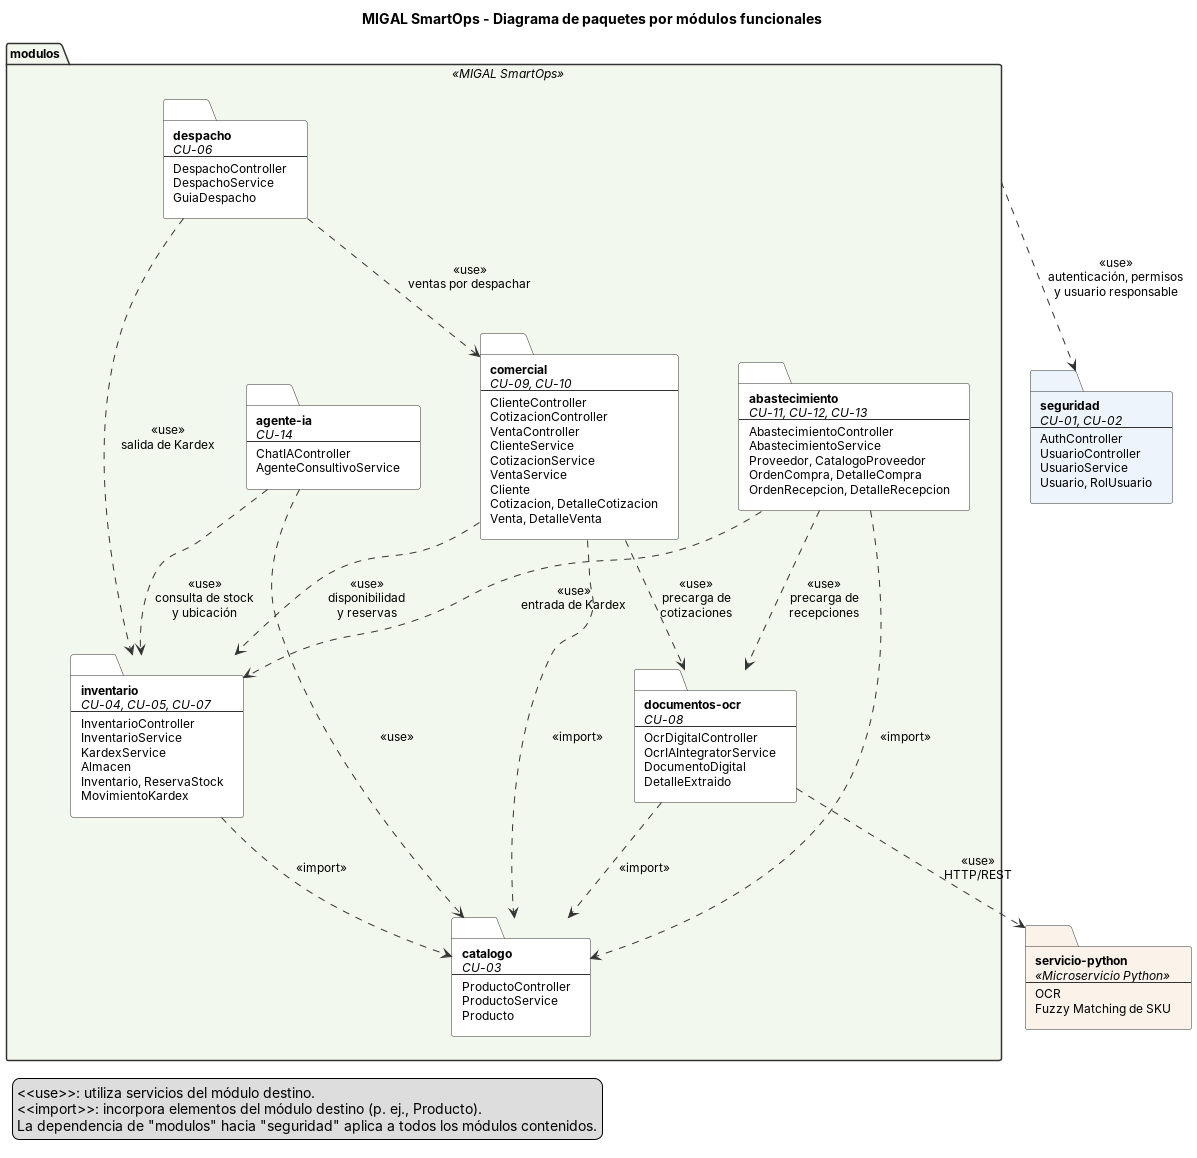
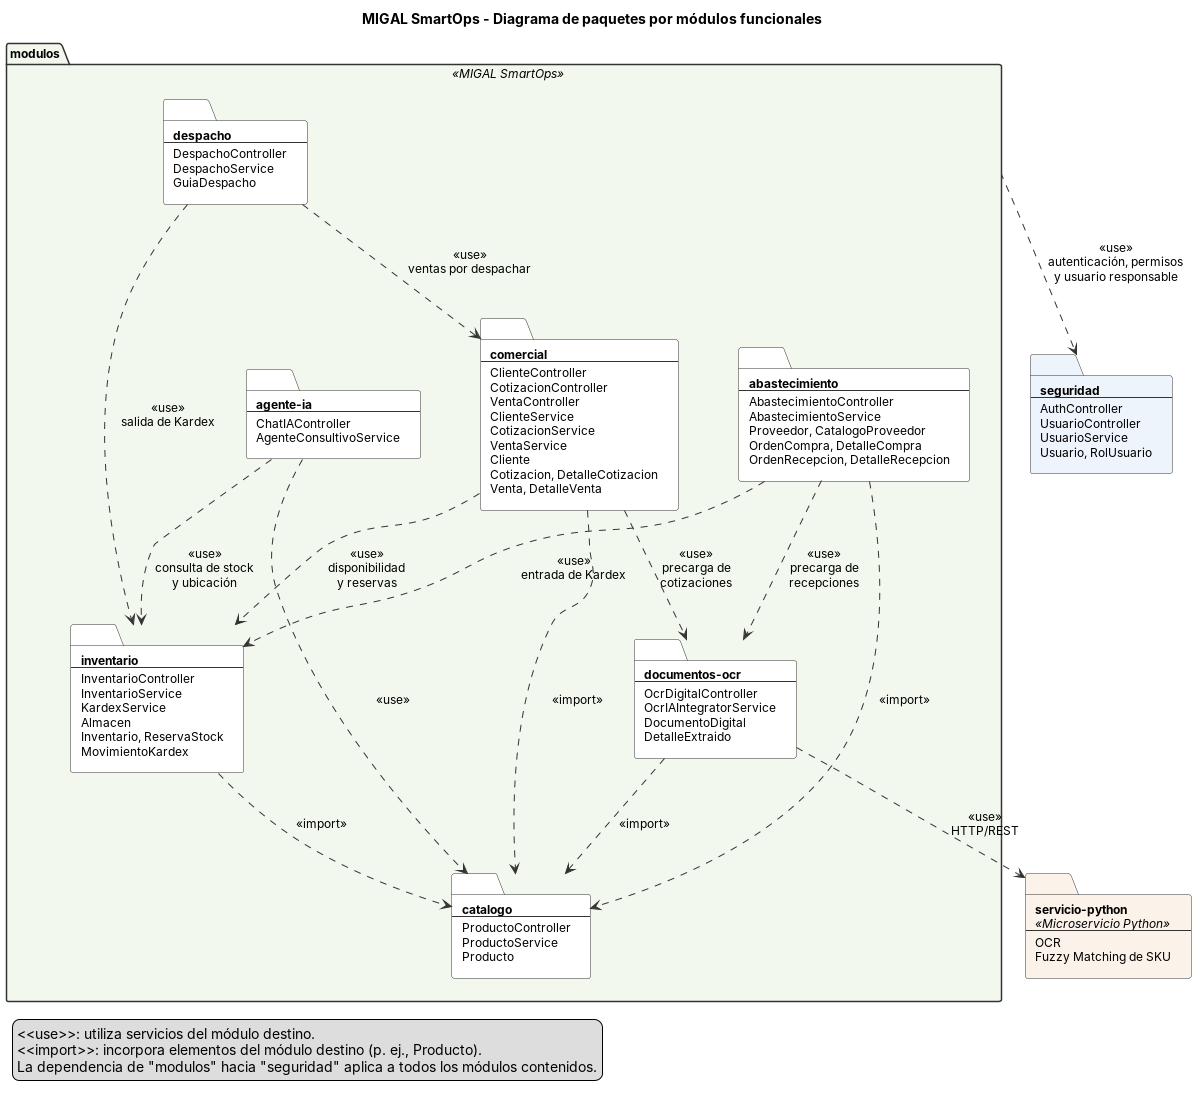
docs(paquetes): omitir casos de uso en diagrama de módulos funcionales

diff --git a/docs/diagramas-paquetes.md b/docs/diagramas-paquetes.md
@@ -36,22 +36,22 @@ Las dependencias siguen una sola dirección: la presentación utiliza el negocio
 
 ## PAQ-02: Módulos funcionales
 
-El diagrama agrupa las clases del backend según los módulos funcionales del sistema y relaciona cada módulo con los casos de uso que realiza.
+El diagrama agrupa las clases del backend según los módulos funcionales del sistema y muestra las dependencias entre ellos.
 
 ![Diagrama de paquetes PAQ-02: Módulos funcionales](imagenes/MIGAL-PAQ-02-modulos-funcionales.png)
 
 [Código fuente](fuentes/paquetes/MIGAL-PAQ-02-modulos-funcionales.puml)
 
-| Módulo | Casos de uso | Depende de |
-| --- | --- | --- |
-| `seguridad` | [CU-01](especificaciones-casos-de-uso.md#cu-01), [CU-02](especificaciones-casos-de-uso.md#cu-02) | Sin dependencias. Todos los demás módulos lo utilizan para autenticación, permisos y registro del usuario responsable. |
-| `catalogo` | [CU-03](especificaciones-casos-de-uso.md#cu-03) | Solo `seguridad`. |
-| `inventario` | [CU-04](especificaciones-casos-de-uso.md#cu-04), [CU-05](especificaciones-casos-de-uso.md#cu-05), [CU-07](especificaciones-casos-de-uso.md#cu-07) | `catalogo`. |
-| `documentos-ocr` | [CU-08](especificaciones-casos-de-uso.md#cu-08) | `catalogo`, `servicio-python`. |
-| `comercial` | [CU-09](especificaciones-casos-de-uso.md#cu-09), [CU-10](especificaciones-casos-de-uso.md#cu-10) | `catalogo`, `inventario`, `documentos-ocr`. |
-| `despacho` | [CU-06](especificaciones-casos-de-uso.md#cu-06) | `comercial`, `inventario`. |
-| `abastecimiento` | [CU-11](especificaciones-casos-de-uso.md#cu-11), [CU-12](especificaciones-casos-de-uso.md#cu-12), [CU-13](especificaciones-casos-de-uso.md#cu-13) | `catalogo`, `inventario`, `documentos-ocr`. |
-| `agente-ia` | [CU-14](especificaciones-casos-de-uso.md#cu-14) | `inventario`, `catalogo`. |
+| Módulo | Depende de |
+| --- | --- |
+| `seguridad` | Sin dependencias. Todos los demás módulos lo utilizan para autenticación, permisos y registro del usuario responsable. |
+| `catalogo` | Solo `seguridad`. |
+| `inventario` | `catalogo`. |
+| `documentos-ocr` | `catalogo`, `servicio-python`. |
+| `comercial` | `catalogo`, `inventario`, `documentos-ocr`. |
+| `despacho` | `comercial`, `inventario`. |
+| `abastecimiento` | `catalogo`, `inventario`, `documentos-ocr`. |
+| `agente-ia` | `inventario`, `catalogo`. |
 
 `catalogo` e `inventario` constituyen la base de las operaciones: los módulos comerciales, de despacho y de abastecimiento modifican o consultan existencias únicamente a través de `inventario`, que concentra los movimientos de Kardex y las reservas de stock.
 
